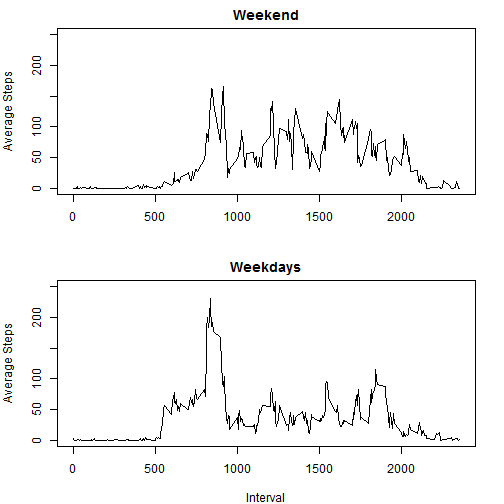
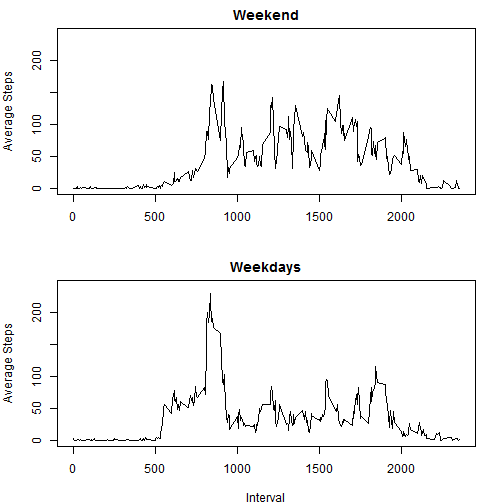
Using mean instead of na_mean since data has no missing values.

diff --git a/PA1_template.html b/PA1_template.html
@@ -352,16 +352,16 @@ sum_ignored &lt;- sum(steps$x, na.rm=T)
 
 <pre><code class="r">wds&lt;-weekdays(filled$date.time,abbreviate=T)
 weekend &lt;-(wds == &quot;Sat&quot; | wds == &quot;Sun&quot;)
-tswe&lt;-aggregate(filled$steps[weekend],by=list(Interval = filled$interval[weekend]),na_mean)
-tswd&lt;-aggregate(filled$steps[!weekend],by=list(Interval = filled$interval[!weekend]),na_mean)
+tswe&lt;-aggregate(filled$steps[weekend],by=list(Interval = filled$interval[weekend]),mean)
+tswd&lt;-aggregate(filled$steps[!weekend],by=list(Interval = filled$interval[!weekend]),mean)
 
 #plot the results
 par(mar=c(4,4,2,2),mfrow=c(2,1))
-plot(tswe$Interval,tswe$x,type=&quot;l&quot;,ylim=c(0,250),ylab=&quot;Average Steps&quot;,xlab=&quot;&quot;, main=&quot;Weekend&quot;)
-plot(tswd$Interval,tswd$x,type=&quot;l&quot;,ylim=c(0,250),ylab=&quot;Average Steps&quot;,xlab=&quot;Interval&quot;,main=&quot;Weekdays&quot;)
+plot(tswe$Interval,tswe$x,type=&quot;l&quot;,ylim=c(0,240),ylab=&quot;Average Steps&quot;,xlab=&quot;&quot;, main=&quot;Weekend&quot;)
+plot(tswd$Interval,tswd$x,type=&quot;l&quot;,ylim=c(0,240),ylab=&quot;Average Steps&quot;,xlab=&quot;Interval&quot;,main=&quot;Weekdays&quot;)
 </code></pre>
 
[2 lines of base64/hex data omitted]
 
 <hr/>
 

diff --git a/PA1_template.md b/PA1_template.md
@@ -1,6 +1,4 @@
----
-output: html_document
----
+
 # Reproducible Research
 ## Peer Assessment 1
 
@@ -166,13 +164,13 @@ It appears that the weekday steps have a pronounced peak (on average) at around 
 ```r
 wds<-weekdays(filled$date.time,abbreviate=T)
 weekend <-(wds == "Sat" | wds == "Sun")
-tswe<-aggregate(filled$steps[weekend],by=list(Interval = filled$interval[weekend]),na_mean)
-tswd<-aggregate(filled$steps[!weekend],by=list(Interval = filled$interval[!weekend]),na_mean)
+tswe<-aggregate(filled$steps[weekend],by=list(Interval = filled$interval[weekend]),mean)
+tswd<-aggregate(filled$steps[!weekend],by=list(Interval = filled$interval[!weekend]),mean)
 
 #plot the results
 par(mar=c(4,4,2,2),mfrow=c(2,1))
-plot(tswe$Interval,tswe$x,type="l",ylim=c(0,250),ylab="Average Steps",xlab="", main="Weekend")
-plot(tswd$Interval,tswd$x,type="l",ylim=c(0,250),ylab="Average Steps",xlab="Interval",main="Weekdays")
+plot(tswe$Interval,tswe$x,type="l",ylim=c(0,240),ylab="Average Steps",xlab="", main="Weekend")
+plot(tswd$Interval,tswd$x,type="l",ylim=c(0,240),ylab="Average Steps",xlab="Interval",main="Weekdays")
 ```
 
 ![plot of chunk weekday](figure/weekday.png) 
